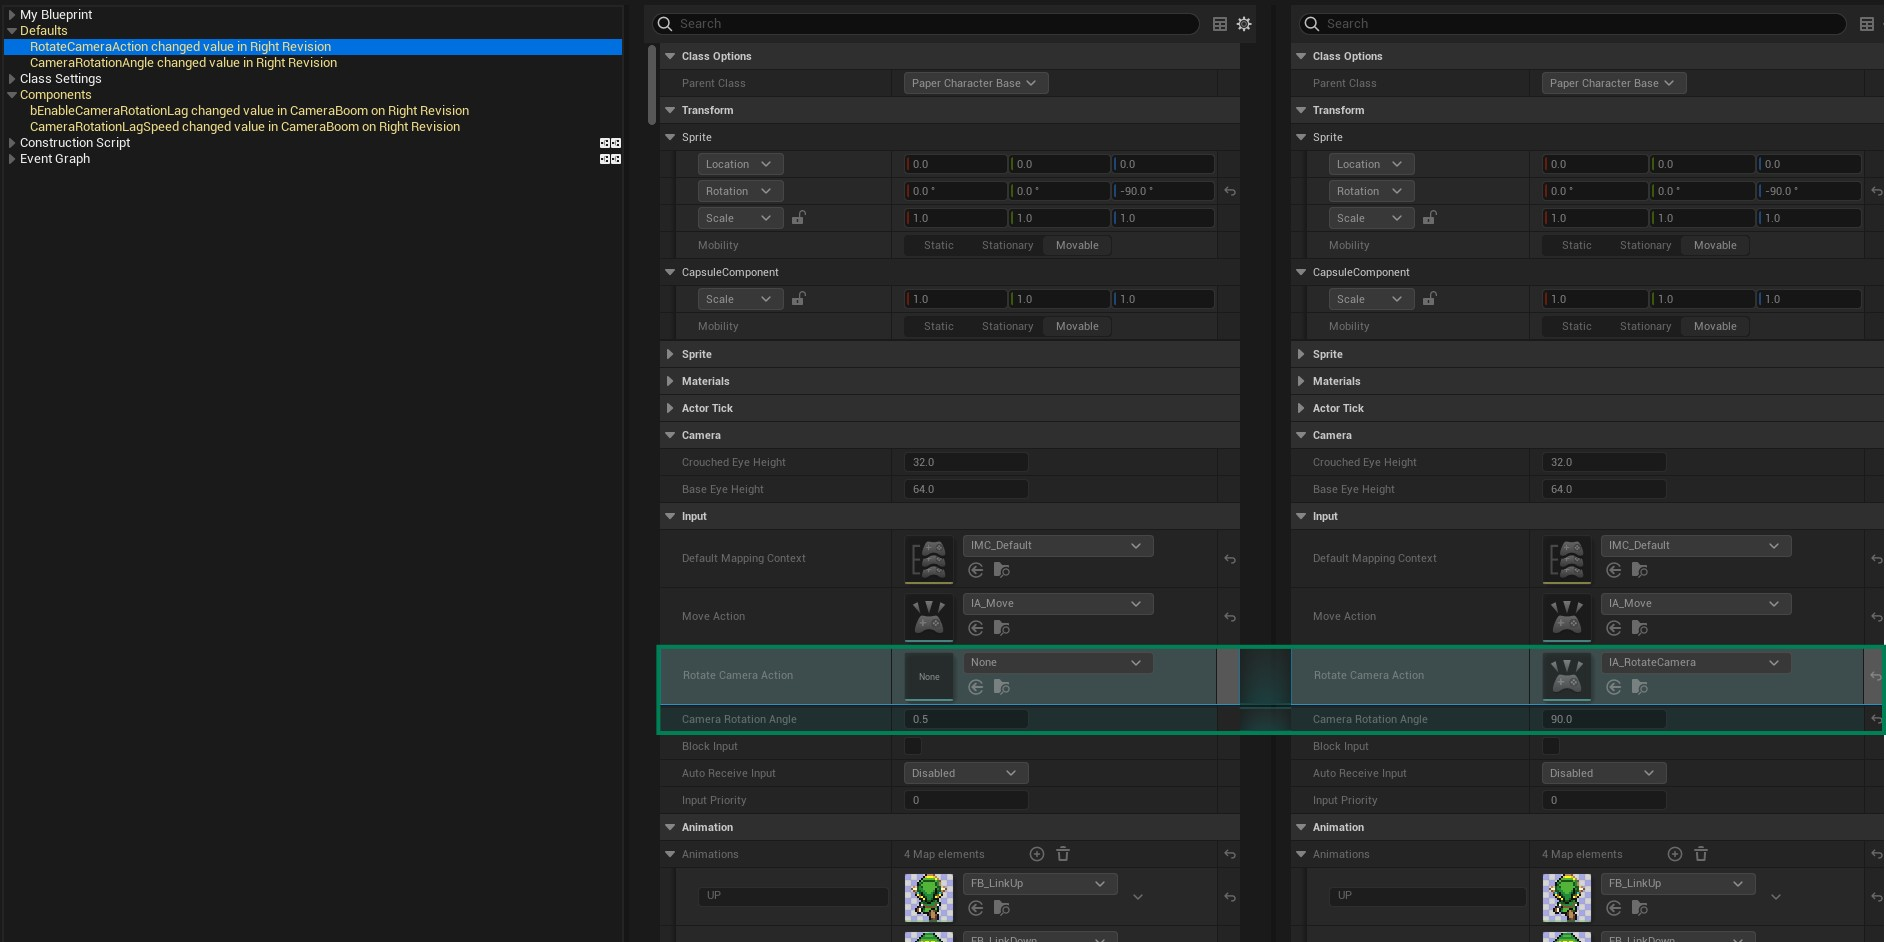
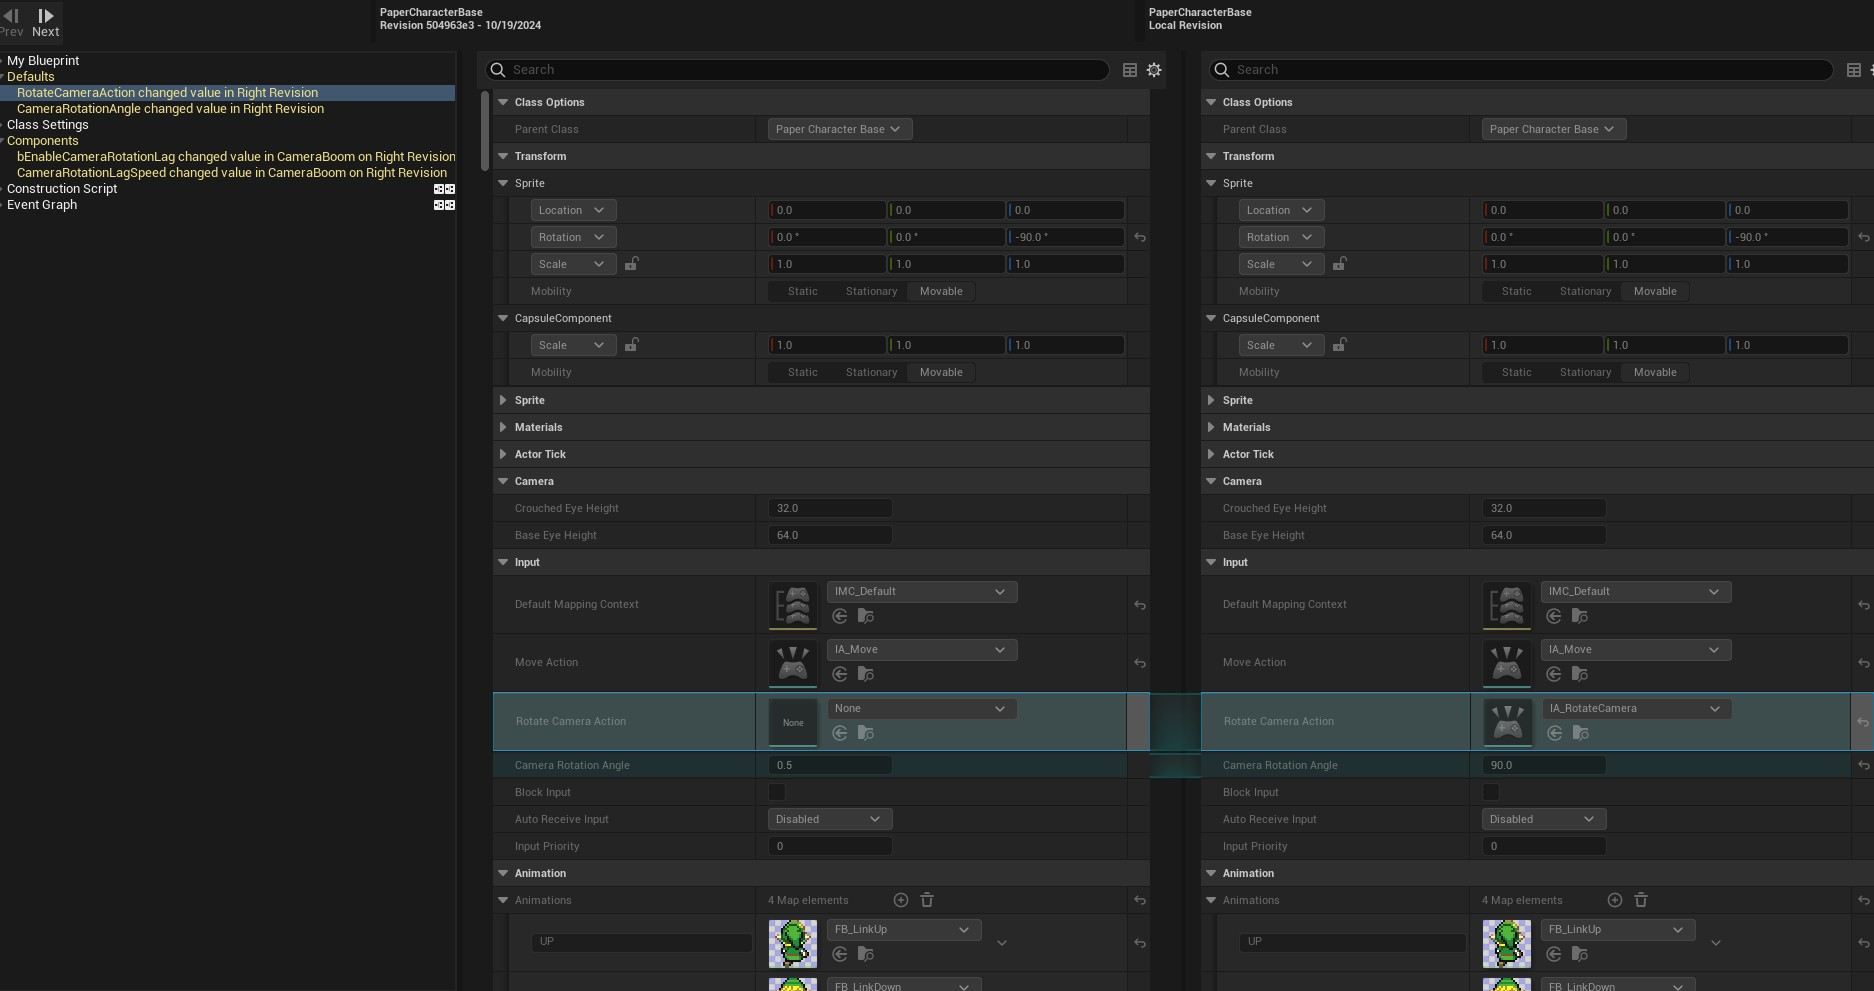
[Add] Camera rotation mechanic

diff --git a/GameJamPlus2024/Source/GameJamPlus2024/Private/PaperCharacterBase.cpp b/GameJamPlus2024/Source/GameJamPlus2024/Private/PaperCharacterBase.cpp
@@ -29,6 +29,9 @@ void APaperCharacterBase::SetupPlayerInputComponent(class UInputComponent* Playe
 	{
 		// Moving
 		EnhancedInputComponent->BindAction(MoveAction, ETriggerEvent::Triggered, this, &APaperCharacterBase::Move);
+
+		//Camera Rotation
+		EnhancedInputComponent->BindAction(RotateCameraAction, ETriggerEvent::Triggered, this, &APaperCharacterBase::RotateCamera);
 	}
 	else
 	{
@@ -86,6 +89,27 @@ void APaperCharacterBase::SwitchAnimation(const FVector2d& value)
 		GetSprite()->SetFlipbook(Animations["DOWN"]);
 	}
 }
+
+void APaperCharacterBase::RotateCamera(const FInputActionValue& Value)
+{
+	FVector CameraRotation = Value.Get<FVector>();
+
+	//Method to rotate the camera smoothly by a certain angle when the input is triggered
+	FRotator CurrentRotation = Controller->GetControlRotation();
+	FRotator TargetRotation = CurrentRotation;
+
+	if (CameraRotation.X < 0)
+	{
+		TargetRotation.Yaw -= CameraRotationAngle;  // Rotate left
+	}
+	else if (CameraRotation.X > 0)
+	{
+		TargetRotation.Yaw += CameraRotationAngle;  // Rotate right
+	}
+
+	GetController()->SetControlRotation(TargetRotation);
+}
+
 
 void APaperCharacterBase::BeginPlay()
 {

diff --git a/GameJamPlus2024/Source/GameJamPlus2024/Public/PaperCharacterBase.h b/GameJamPlus2024/Source/GameJamPlus2024/Public/PaperCharacterBase.h
@@ -24,6 +24,11 @@ class GAMEJAMPLUS2024_API APaperCharacterBase : public APaperCharacter
 	/** Move Input Action */
 	UPROPERTY(EditAnywhere, BlueprintReadOnly, Category = Input, meta = (AllowPrivateAccess = "true"))
 	UInputAction* MoveAction;
+
+	//** Rotate Camera Input ACtion */
+	UPROPERTY(EditAnywhere, BlueprintReadOnly, Category= Input, meta = (AllowPrivateAccess = "true"))
+	UInputAction* RotateCameraAction;
+
 	
 	UPROPERTY(EditAnywhere, BlueprintReadWrite, Category = "Animation", meta = (AllowPrivateAccess = "true"))
 	TMap<FString, UPaperFlipbook*> Animations;
@@ -33,10 +38,13 @@ public:
 	APaperCharacterBase();
 
 protected:
+	UPROPERTY(EditAnywhere, BlueprintReadWrite, Category = "Input", meta = (AllowPrivate = "true"))
+	float CameraRotationAngle = 0.5f;
 
 	/** Called for movement input */
 	void Move(const FInputActionValue& Value);
 	void SwitchAnimation(const FVector2d& Value);
+	void RotateCamera(const FInputActionValue& Value);
 
 	// APawn interface
 	virtual void SetupPlayerInputComponent(class UInputComponent* PlayerInputComponent) override;
